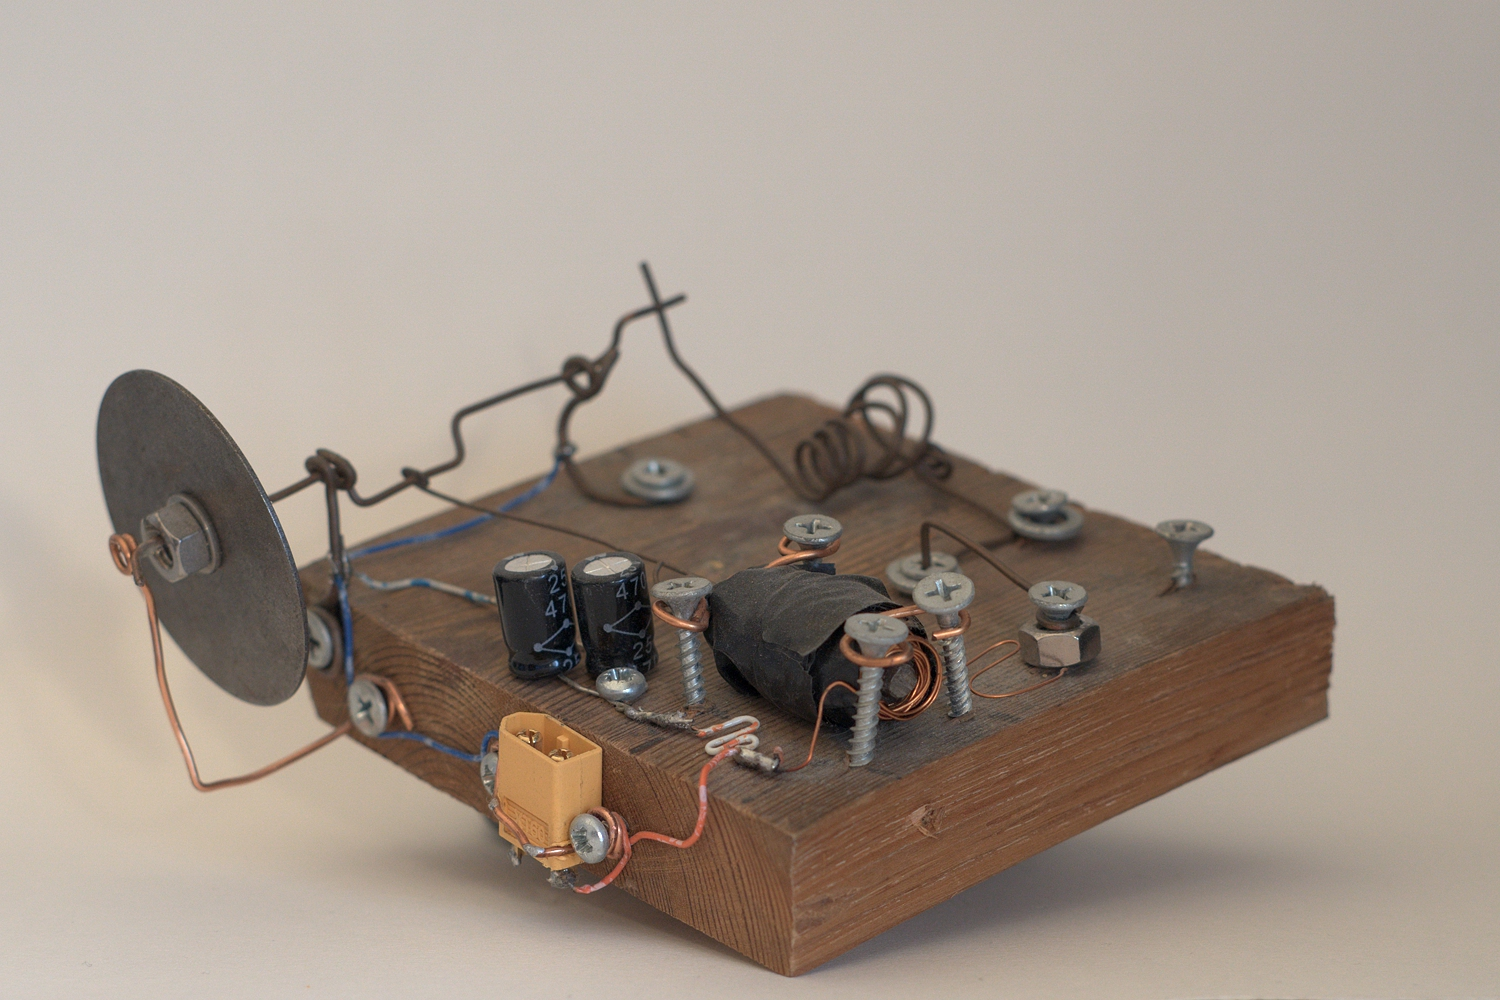
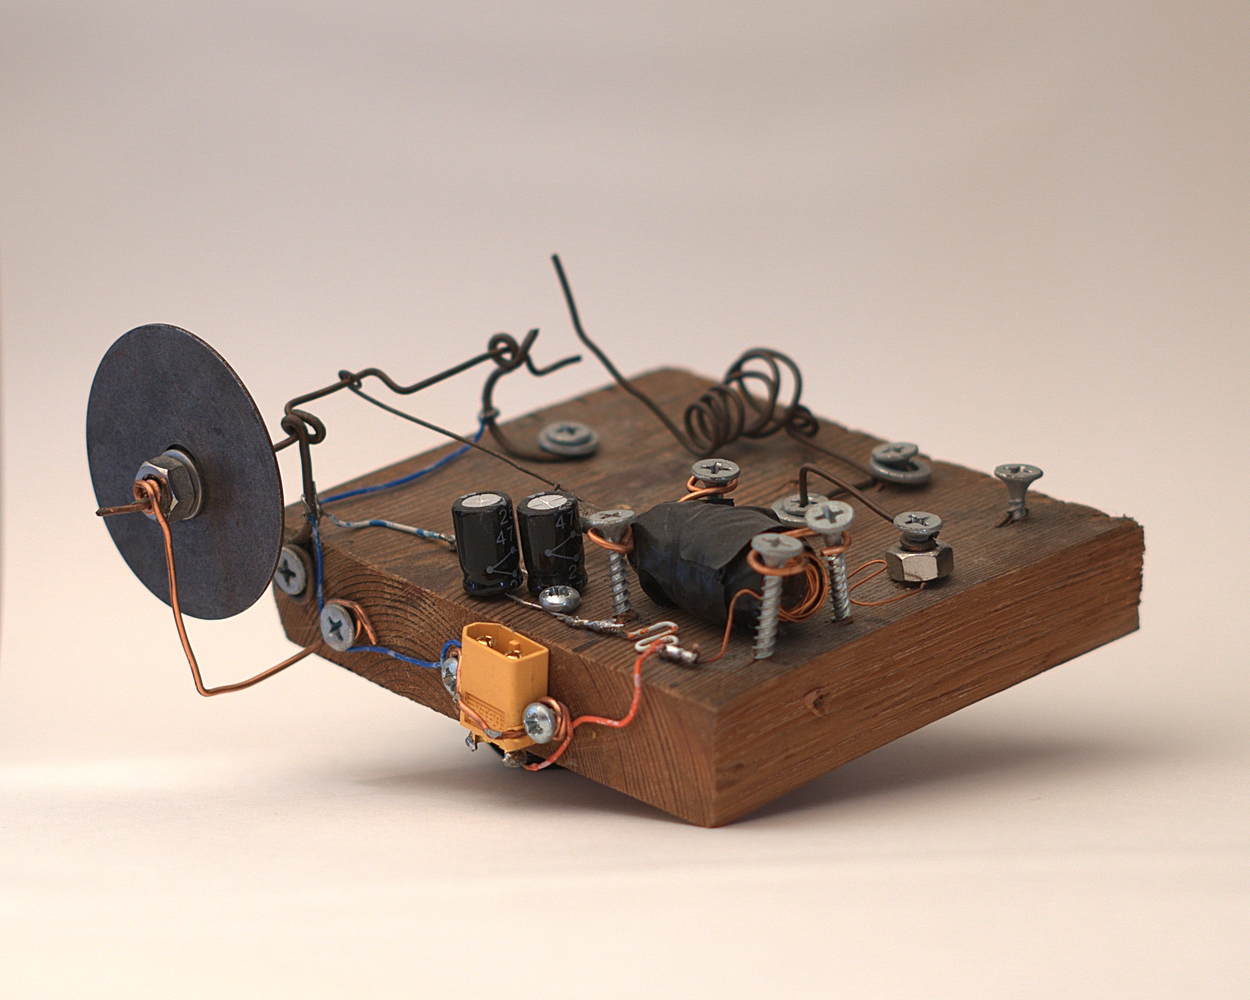
image changes

diff --git a/public/stuffimade/index.html b/public/stuffimade/index.html
@@ -22,8 +22,8 @@
                         I occasionally want to make something. Sometimes it’s practical, sometimes it's pretty, sometimes it's just for fun. Here are a couple I quite like.
                     </p>
                 </div>
-                <div class="image area" style="max-width: 657px; min-width: 460px;">
-                    <div class="img" style="background-image:url('/stuffimade/assets/1.jpg'); background-position-x: 96%;"></div>
+                <div class="image area" style="max-width: 557px; min-width: 330px;">
+                    <div class="img" style="background-image:url('/stuffimade/assets/1.jpg'); background-position-x: 56%;"></div>
                 </div>
             </div>
 
@@ -100,10 +100,10 @@
                 </div>
             </div>
             <div class="section imageSection parallax s7">
-                <div class="image">
+                <div class="image" style="max-width: 690px;">
                     <div class="img" style="background-image:url('/stuffimade/assets/8.jpg');"></div>
                 </div>
-                <div class="image">
+                <div class="image" style="max-width: 690px;">
                     <div class="img" style="background-image:url('/stuffimade/assets/8a.jpg')"></div>
                 </div>
             </div>
